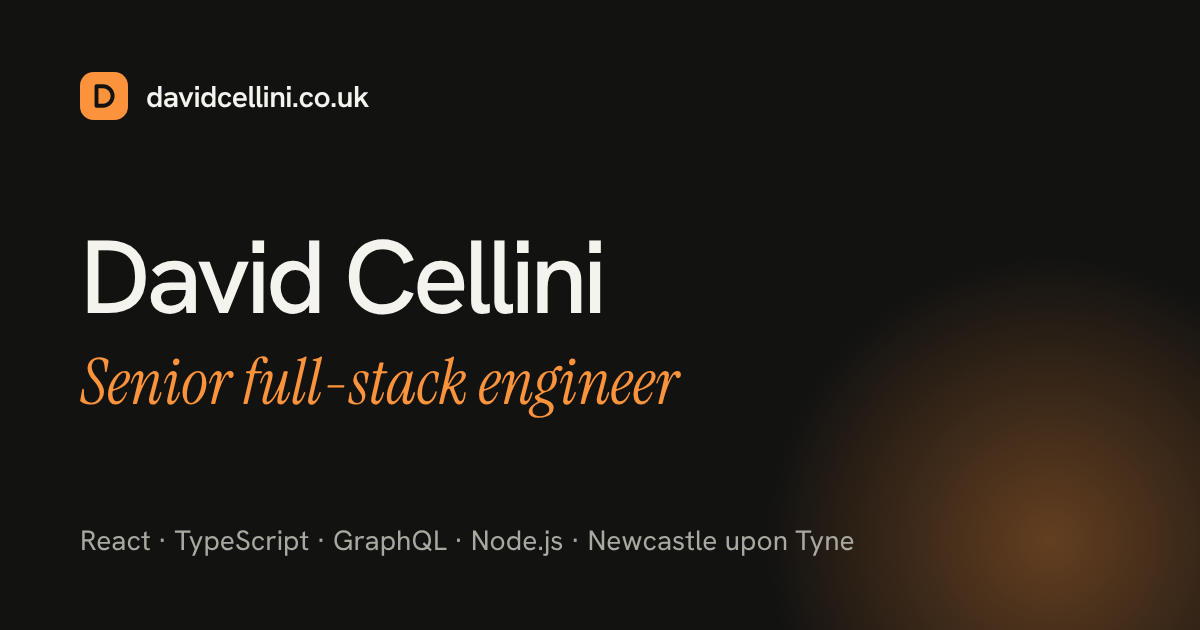
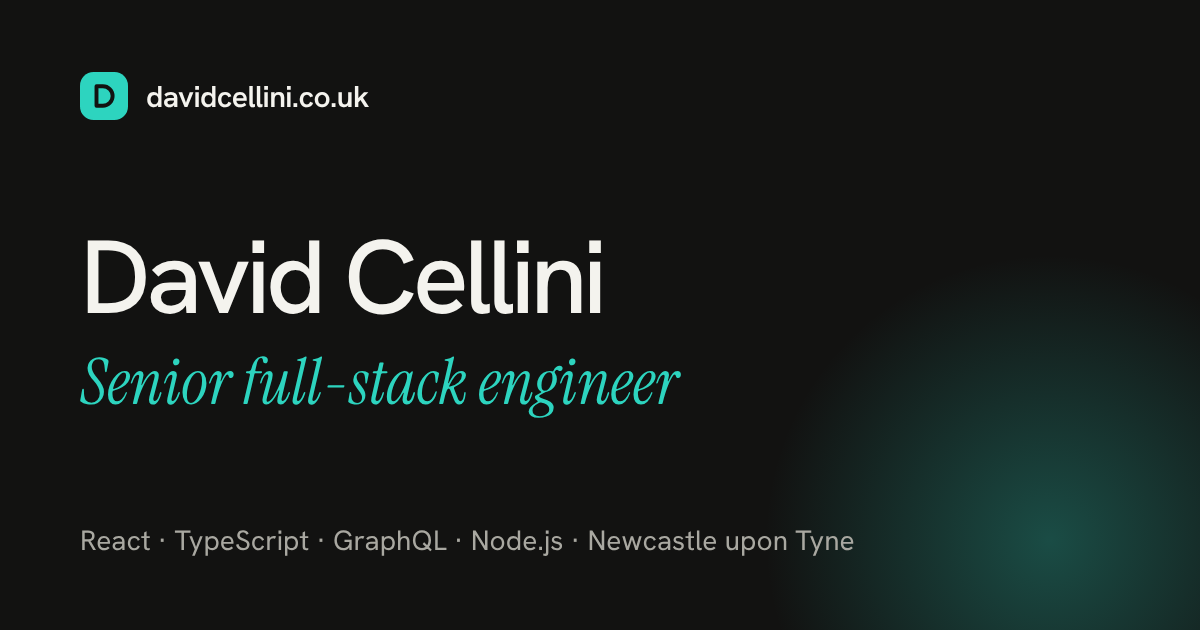
feat: switch the accent from burnt orange to deep teal
David felt the bright orange on near-black in dark mode carried an
unwanted association.

- Light: #0f766e (white text 5.5:1), #115e59 for body-size text and
  hover (7.3:1 on canvas).
- Dark and the always-dark contact panel: #2dd4bf (9+:1 on dark
  backgrounds; #121211 text on it 10.1:1), hover #5eead4.
- Favicon and the 1200x630 share image regenerated in teal.

Claude-Session: https://claude.ai/code/session_017vRcYukicVMPECWVcoJd7q

Changed region(s): [[0.7092, 0.5429, 1.0, 1.0], [0.0617, 0.573, 0.5858, 0.6635], [0.0617, 0.0905, 0.1233, 0.2111]]

diff --git a/src/styles/global.css b/src/styles/global.css
@@ -111,18 +111,18 @@
   --ink: #121211;
   --body: #3b3b38;
   --muted: #6a6964;
-  /* Burnt orange. White text on #c2410c is 5.18:1; #9a3412 is for body-size orange text (6.5:1+). */
-  --accent: #c2410c;
-  --accent-strong: #9a3412;
-  --accent-ink: #9a3412;
+  /* Deep teal. White text on #0f766e is 5.5:1; #115e59 is for body-size teal text (7.3:1 on canvas). */
+  --accent: #0f766e;
+  --accent-strong: #115e59;
+  --accent-ink: #115e59;
   --on-accent: #ffffff;
   --inverse: #121211;
   --on-inverse: #fafaf7;
   --night: #121211;
   --night-ink: #f4f3ee;
   --night-muted: #a9a8a1;
-  /* The night panel is dark in both themes, so it always uses the lighter orange (7.9:1). */
-  --night-accent: #fb923c;
+  /* The night panel is dark in both themes, so it always uses the lighter teal (10.1:1). */
+  --night-accent: #2dd4bf;
   --shadow-card: 0 1px 2px rgb(18 18 17 / 0.05), 0 12px 32px -12px rgb(18 18 17 / 0.16);
   --shadow-shot: 0 2px 6px rgb(18 18 17 / 0.06), 0 30px 60px -24px rgb(18 18 17 / 0.3);
   --header-h: 4.5rem;
@@ -142,10 +142,10 @@
   --muted: #9d9c95;
   --inverse: #f4f3ee;
   --on-inverse: #121211;
-  /* Lighter orange for dark backgrounds: 7.5-8.6:1 on canvas, surface and sunken; #121211 text on it is 8.3:1. */
-  --accent: #fb923c;
-  --accent-strong: #fdba74;
-  --accent-ink: #fb923c;
+  /* Lighter teal for dark backgrounds: 9+:1 on canvas, surface and sunken; #121211 text on it is 10.1:1. */
+  --accent: #2dd4bf;
+  --accent-strong: #5eead4;
+  --accent-ink: #2dd4bf;
   --on-accent: #121211;
   --night: #171716;
   --shadow-card: 0 1px 2px rgb(0 0 0 / 0.4), 0 12px 32px -12px rgb(0 0 0 / 0.6);

diff --git a/scripts/og-image.html b/scripts/og-image.html
@@ -39,7 +39,7 @@
         width: 620px;
         height: 620px;
         border-radius: 50%;
-        background: radial-gradient(circle, rgb(251 146 60 / 0.35), transparent 65%);
+        background: radial-gradient(circle, rgb(45 212 191 / 0.3), transparent 65%);
       }
       .brand {
         display: flex;
@@ -58,7 +58,7 @@
       }
       .role {
         margin: 20px 0 0;
-        color: #fb923c;
+        color: #2dd4bf;
         font-family: 'Instrument Serif', serif;
         font-size: 64px;
         font-style: italic;
@@ -77,7 +77,7 @@
     <div class="card">
       <div class="brand">
         <svg width="48" height="48" viewBox="0 0 32 32" fill="none" aria-hidden="true">
-          <rect width="32" height="32" rx="9" fill="#fb923c" />
+          <rect width="32" height="32" rx="9" fill="#2dd4bf" />
           <path d="M11 9.5v13h4.25a6.5 6.5 0 0 0 0-13z" stroke="#121211" stroke-width="2.6" stroke-linejoin="round" />
         </svg>
         davidcellini.co.uk
